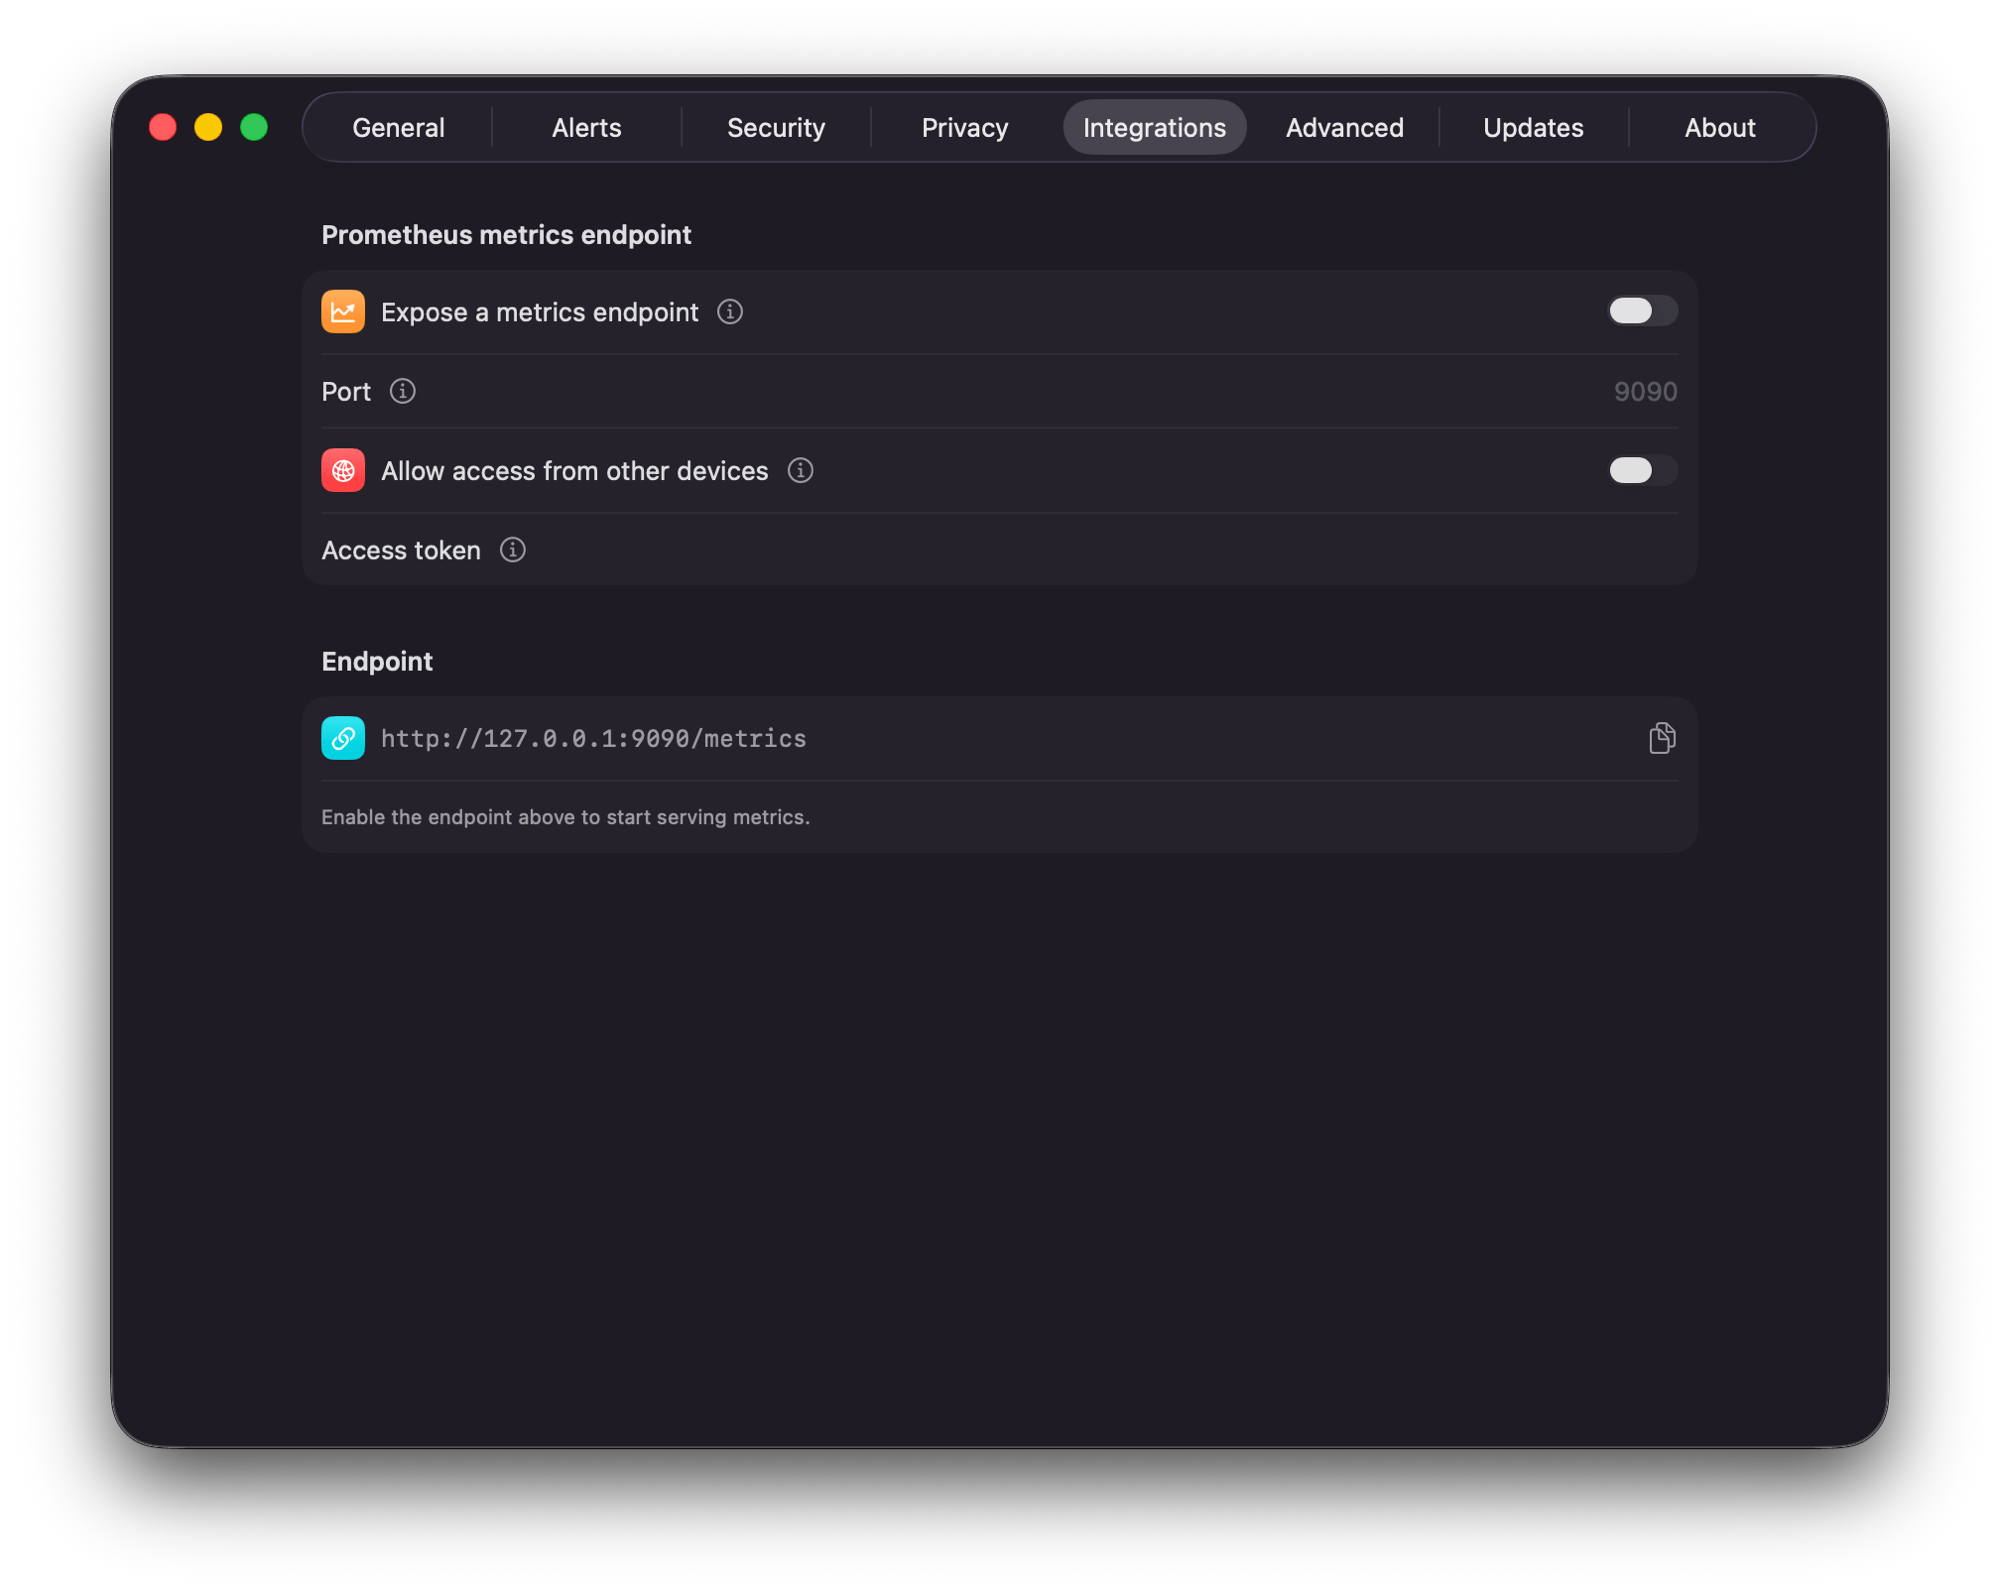
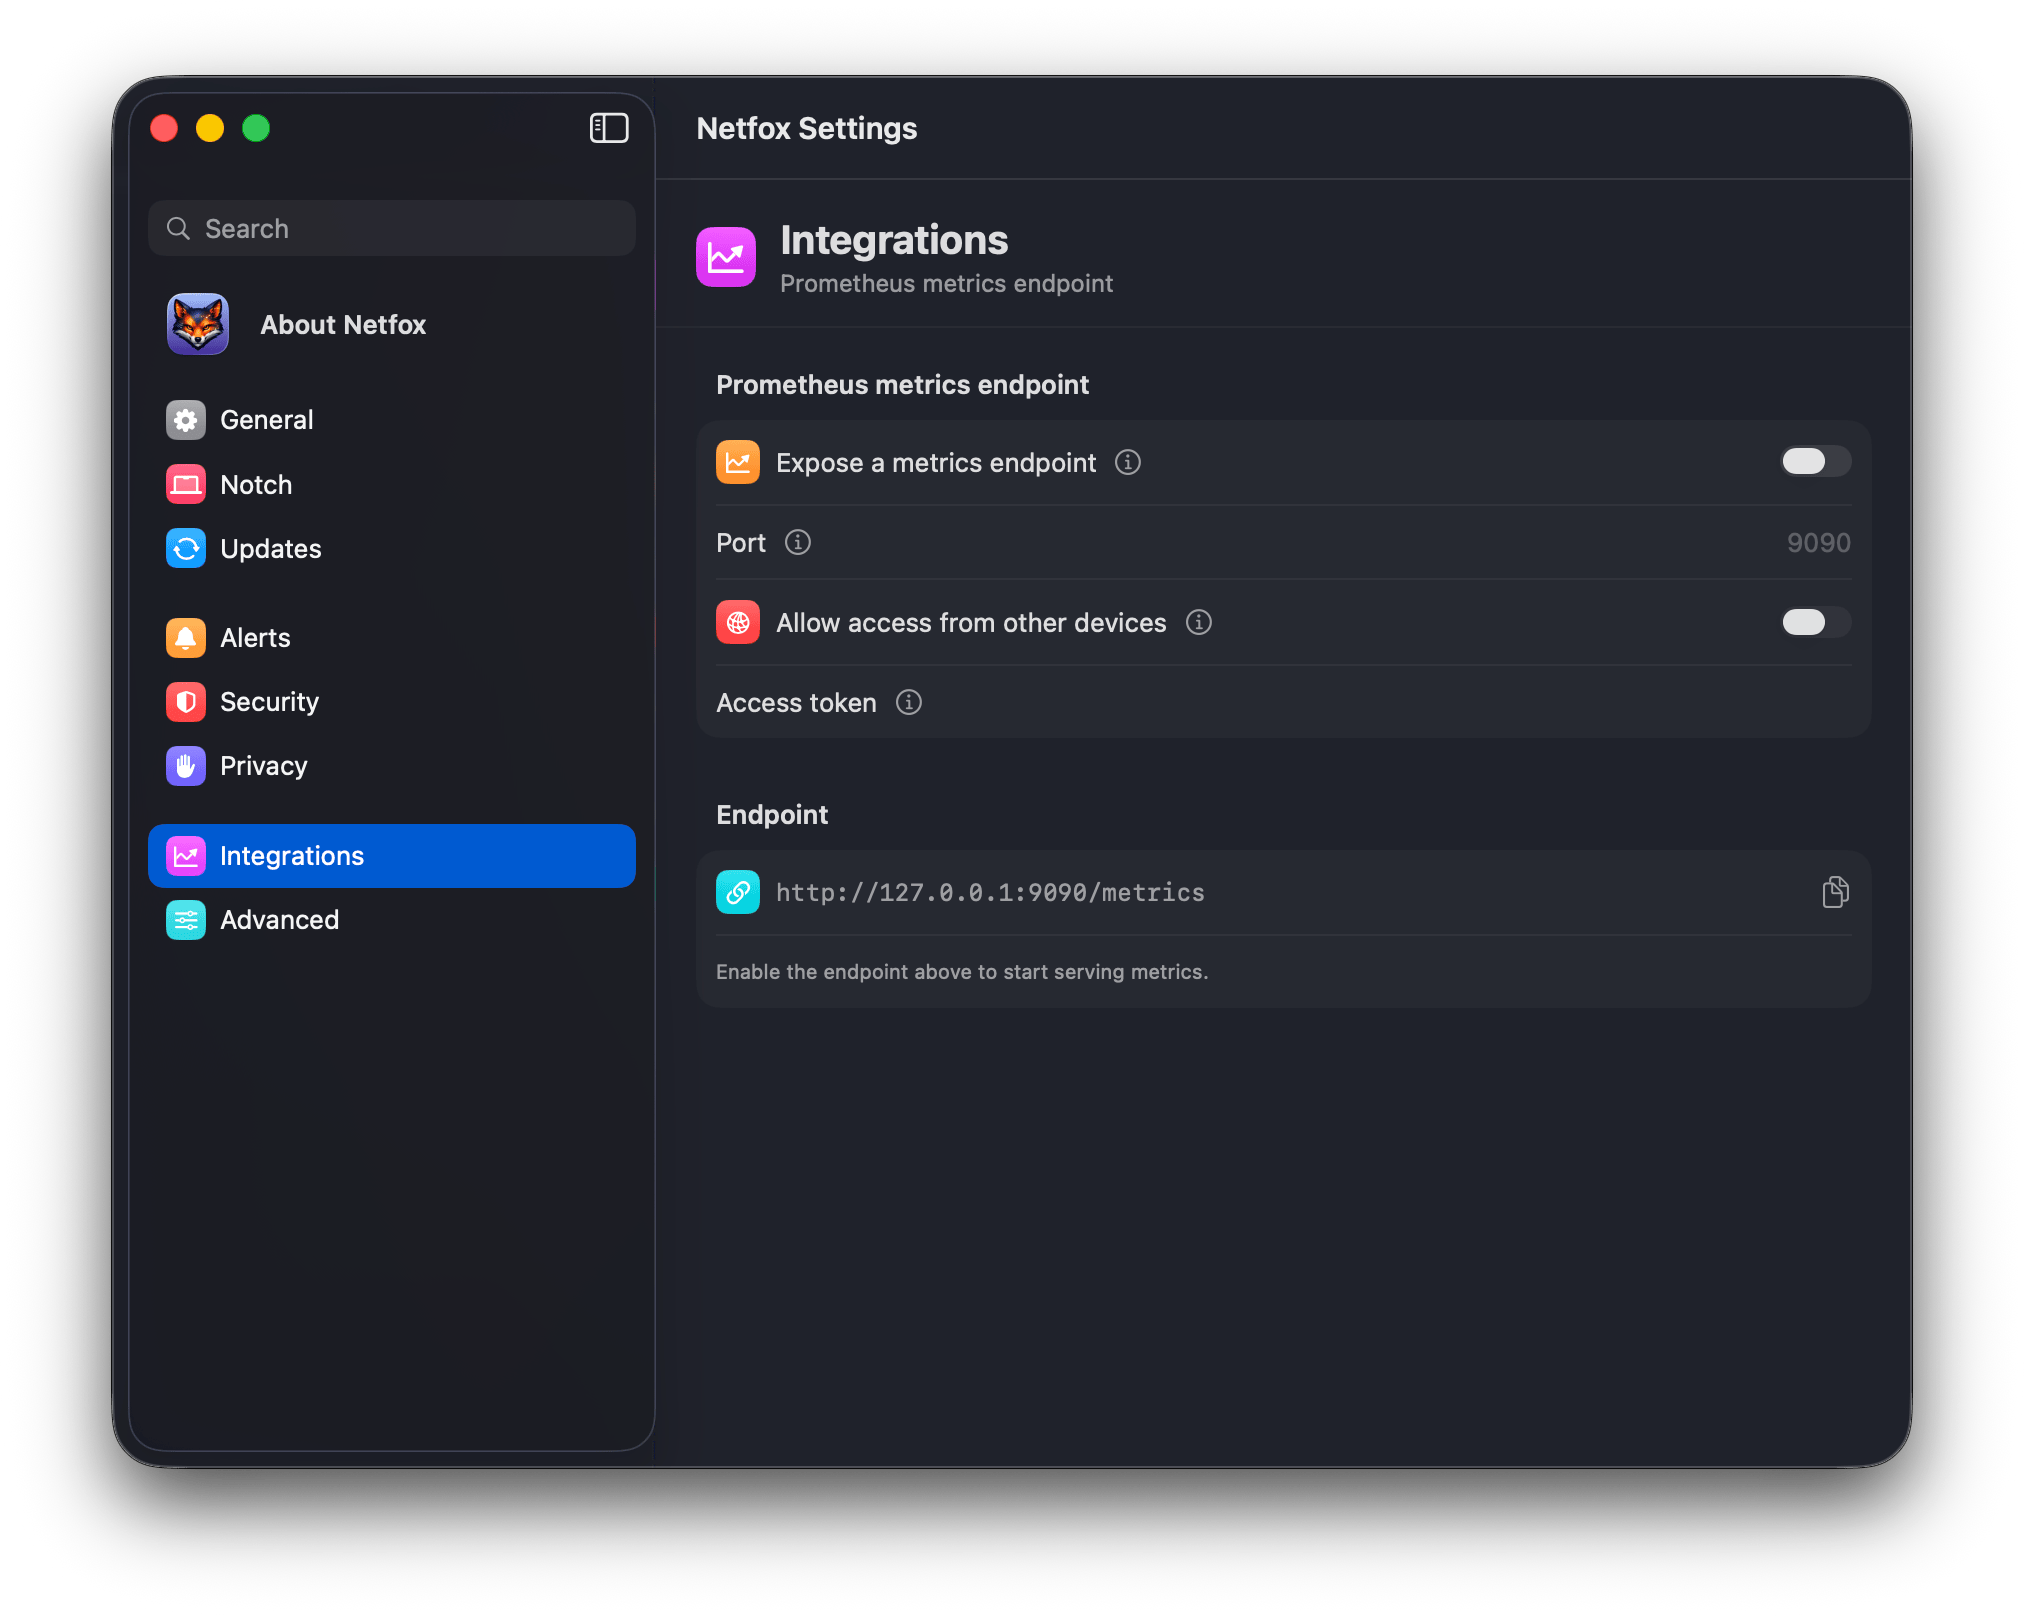
feat(sparkle): publish Netfox v0.9.0 to appcast

diff --git a/public/release-notes/0.9.0.html b/public/release-notes/0.9.0.html
@@ -1,0 +1,103 @@
+<!DOCTYPE html>
+<html lang="en">
+<head>
+<meta charset="utf-8">
+<meta name="viewport" content="width=device-width, initial-scale=1">
+<title>Netfox 0.9.0 — Release Notes</title>
+<style>
+  :root {
+    color-scheme: light dark;
+    --bg: #ffffff;
+    --fg: #1a1a1a;
+    --accent: #f76707;
+    --muted: #6b6b73;
+    --code-bg: #f4f4f5;
+    --border: rgba(0,0,0,0.12);
+  }
+  @media (prefers-color-scheme: dark) {
+    :root {
+      --bg: #1c1c1e;
+      --fg: #ececec;
+      --muted: #9c9ca5;
+      --code-bg: #2c2c2e;
+      --border: rgba(255,255,255,0.14);
+    }
+  }
+  * { box-sizing: border-box; }
+  body {
+    font: 14px/1.55 -apple-system, BlinkMacSystemFont, "SF Pro Text", "Helvetica Neue", sans-serif;
+    color: var(--fg);
+    background: var(--bg);
+    margin: 0 auto;
+    padding: 20px 24px 40px;
+    max-width: 720px;
+  }
+  header.page-header {
+    border-bottom: 1px solid var(--border);
+    padding-bottom: 14px;
+    margin-bottom: 22px;
+  }
+  header.page-header h1 { font-size: 1.7em; margin: 0 0 4px; letter-spacing: -0.02em; }
+  header.page-header .subtitle { color: var(--muted); margin: 0; font-size: 0.92em; }
+  h1, h2, h3, h4 { letter-spacing: -0.01em; margin: 1.5em 0 0.5em; }
+  h1 { font-size: 1.4em; }
+  h2 { font-size: 1.2em; }
+  h3 { font-size: 1em; }
+  a { color: var(--accent); }
+  hr { border: 0; border-top: 1px solid var(--border); margin: 22px 0; }
+  ul, ol { padding-left: 1.4em; }
+  li { margin: 4px 0; }
+  code {
+    font: 0.9em ui-monospace, "SF Mono", Menlo, Consolas, monospace;
+    background: var(--code-bg);
+    padding: 1px 5px;
+    border-radius: 3px;
+  }
+  pre {
+    background: var(--code-bg);
+    padding: 12px 14px;
+    border-radius: 6px;
+    overflow-x: auto;
+    font-size: 0.88em;
+  }
+  pre code { background: transparent; padding: 0; font-size: 1em; }
+  blockquote {
+    margin: 12px 0;
+    padding-left: 12px;
+    border-left: 3px solid var(--border);
+    color: var(--muted);
+  }
+  table { border-collapse: collapse; width: 100%; margin: 12px 0; font-size: 0.95em; }
+  th, td { border: 1px solid var(--border); padding: 6px 10px; text-align: left; }
+  th { background: var(--code-bg); }
+  img { max-width: 100%; }
+</style>
+</head>
+<body>
+<header class="page-header">
+  <h1>Netfox 0.9.0</h1>
+  <p class="subtitle">Release notes</p>
+</header>
+<p>Netfox 0.9.0 brings the <strong>Notch HUD</strong> — your network, live, right out of your MacBook's notch — plus sharper device recognition across the board.</p>
+<h2>Notch HUD</h2>
+<ul>
+<li>A Dynamic-Island-style overlay grows out of the notch with live device, risk, public-IP and traffic readouts. Idle it's a discreet pill; reach for it and it expands.</li>
+<li><strong>Four layouts</strong> to match how much you want on screen: Horizontal, Vertical, Panel, and the rich <strong>Super Island</strong> — a tabbed dashboard (Devices · Risk · Traffic · Alerts) where clicking a row jumps straight to that device's detail.</li>
+<li><strong>Open it your way</strong>: on hover, on click to pin it open, or hover-then-click.</li>
+<li>A live traffic chart sized for the notch, with a steadier scale and min/max guides.</li>
+<li>Off by default, and only offered on Macs that actually have a notch. Turn it on in Settings → Notch.</li>
+</ul>
+<h2>Sharper device recognition</h2>
+<ul>
+<li>Your gateway is now labelled as a Router.</li>
+<li>Netfox reads the product behind a device's web page and flags pages that require a login.</li>
+<li>Recognizes more vendors and ports out of the box.</li>
+</ul>
+<h2>Fixes &amp; polish</h2>
+<ul>
+<li>A steadier device list — brief network blips no longer make devices flicker in and out.</li>
+<li>The colored menu bar icon is now the default (switch to monochrome in Settings → General).</li>
+<li>Settings: About now lives in the sidebar header ("About Netfox").</li>
+</ul>
+</body>
+</html>

diff --git a/content/_meta.tsx b/content/_meta.tsx
@@ -5,6 +5,7 @@ import {
   IconHistory,
   IconKeyboard,
   IconLayoutNavbar,
+  IconLayoutNavbarExpand,
   IconRocket,
   IconRoute,
   IconSettings,
@@ -18,6 +19,7 @@ export default {
   'getting-started': nav(IconRocket, 'Getting Started'),
   tools: nav(IconTool, 'Tools'),
   'menu-bar': nav(IconLayoutNavbar, 'Menu Bar'),
+  notch: nav(IconLayoutNavbarExpand, 'Notch HUD'),
   settings: nav(IconSettings, 'Settings'),
   integrations: nav(IconChartLine, 'Integrations'),
   'keyboard-shortcuts': nav(IconKeyboard, 'Keyboard Shortcuts'),

diff --git a/config/index.ts b/config/index.ts
@@ -86,7 +86,7 @@ export default {
     defaultLanguage: 'en',
   },
   app: {
-    version: '0.8.1',
+    version: '0.9.0',
     minMacOS: '15.0',
     downloadUrl: 'https://github.com/gfazioli/netfox-website/releases/latest',
   },
